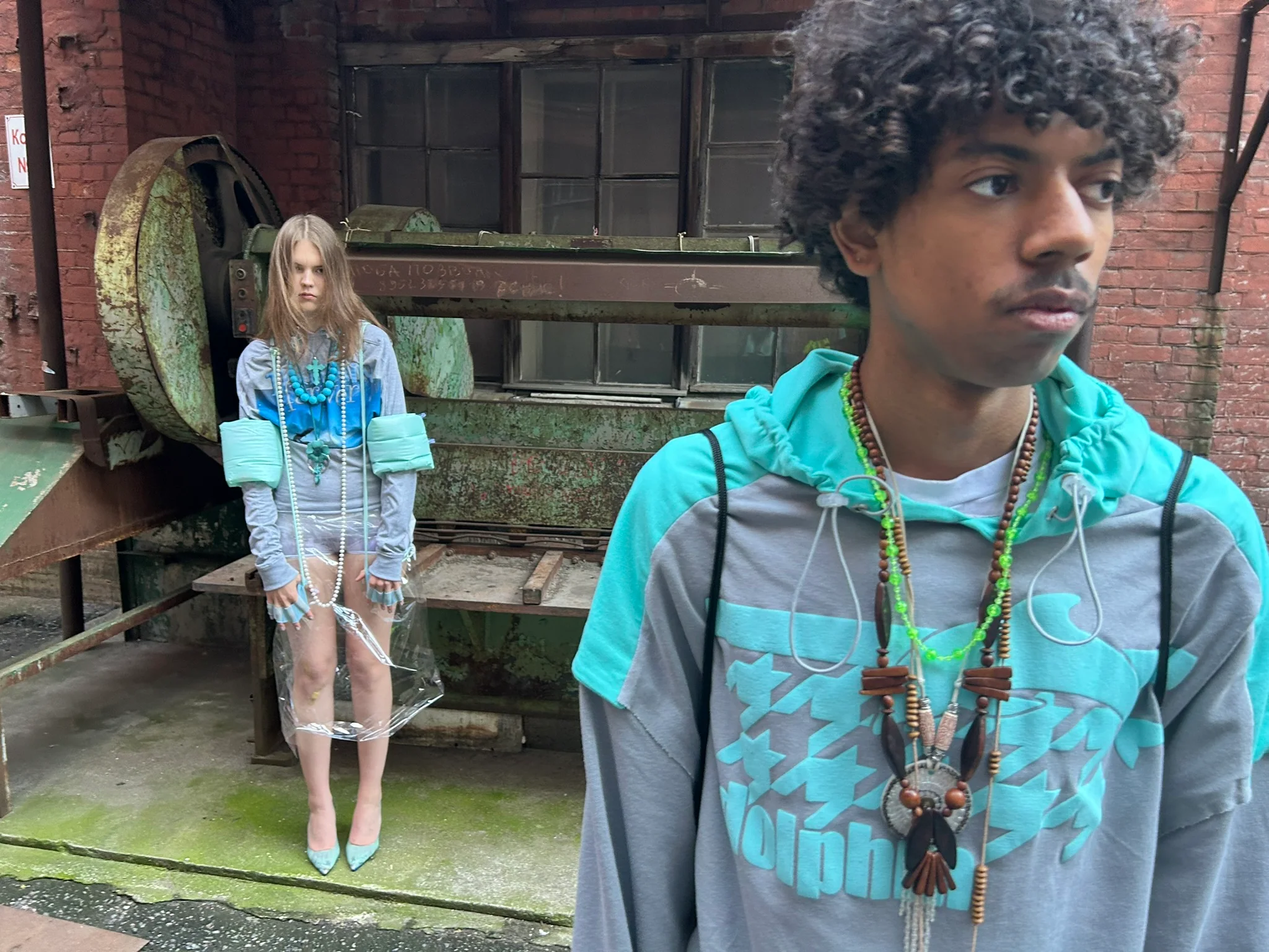
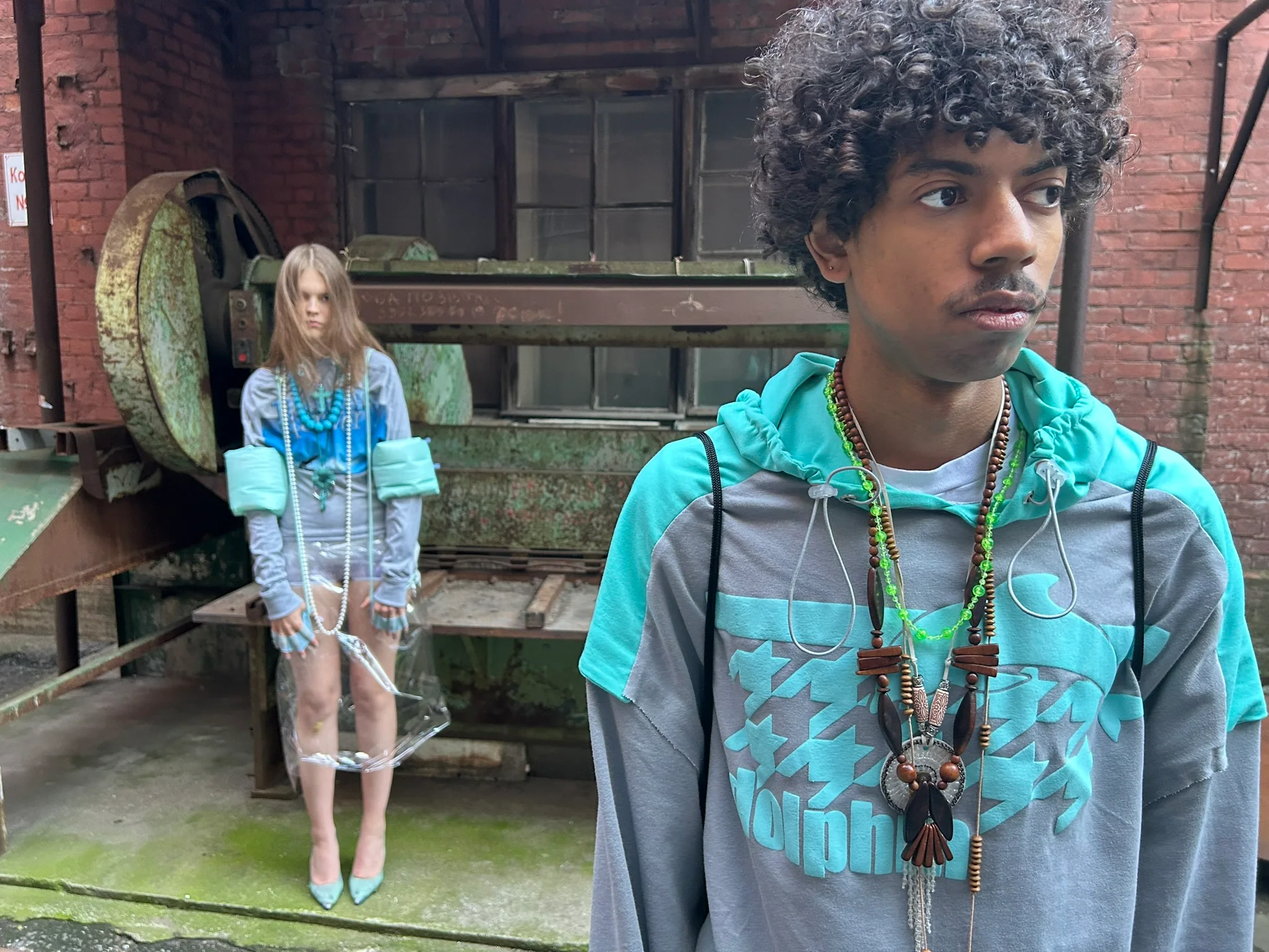
Apply selected photoshoot takes and remove redundant frames

diff --git a/scripts/photo-layout.test.ts b/scripts/photo-layout.test.ts
@@ -6,7 +6,7 @@ import { layoutPhotos, type LayoutItem } from '../src/lib/photo-layout.ts'
 const album = JSON.parse(readFileSync(new URL('../src/photos/album.json', import.meta.url), 'utf8'))
 
 test('every curated asset exists once, including six silent loops', () => {
-  assert.equal(album.length, 117)
+  assert.equal(album.length, 115)
   assert.equal(new Set(album.map((item: { file: string }) => item.file)).size, album.length)
   assert.equal(album.filter((item: { file: string }) => item.file.endsWith('.mp4')).length, 6)
   for (const item of album) {

diff --git a/README.md b/README.md
@@ -29,7 +29,7 @@ GitHub Actions продолжает обслуживать GitHub Pages отде
 
 ## Тестовые расстановки
 
-Обычный адрес открывает выбранную раскладку «Микстейп». Для сравнения добавь `?layout=editorial` (журнал, редкие крупные кадры), `?layout=mixtape` (люди, вода, игры и движение вперемешку) или `?layout=objects` (одежда, сумки и видео в центре внимания). `?layout=original` явно выбирает исходный вариант; неизвестное значение возвращает «Микстейп». Во всех вариантах одинаковые 117 медиа, порядок воспроизводимый. `#N` остаётся постоянной ссылкой на тот же кадр независимо от раскладки; слайд-шоу идёт в порядке выбранной версии. Если в URL уже есть параметры, используй `&layout=…`.
+Обычный адрес открывает выбранную раскладку «Микстейп». Для сравнения добавь `?layout=editorial` (журнал, редкие крупные кадры), `?layout=mixtape` (люди, вода, игры и движение вперемешку) или `?layout=objects` (одежда, сумки и видео в центре внимания). `?layout=original` явно выбирает исходный вариант; неизвестное значение возвращает «Микстейп». Во всех вариантах одинаковые 115 медиа, порядок воспроизводимый. `#N` остаётся постоянной ссылкой на тот же кадр независимо от раскладки; слайд-шоу идёт в порядке выбранной версии. Если в URL уже есть параметры, используй `&layout=…`.
 
 Промежутки сетки одинаковые по горизонтали и вертикали: 16px на ПК, 2px на телефоне.
 

diff --git a/docs/CODEX-CONTEXT.md b/docs/CODEX-CONTEXT.md
@@ -9,7 +9,7 @@ No backend, database or runtime third-party API is needed.
 - Default composition is **mixtape**. Other edits remain available through
   `?layout=original`, `?layout=editorial`, `?layout=objects`.
 - Square grid by default. Gutters are equal: 16px desktop, 2px mobile.
-- 117 items, including six silent looping MP4s. Repeated takes have already been
+- 115 items, including six silent looping MP4s. Repeated takes have already been
   curated: do not restore deleted photos or import the whole shoot again.
 - `src/photos/album.json` defines the canonical selection and metadata;
   `src/lib/album-variants.ts` defines compositions and emphasis.
